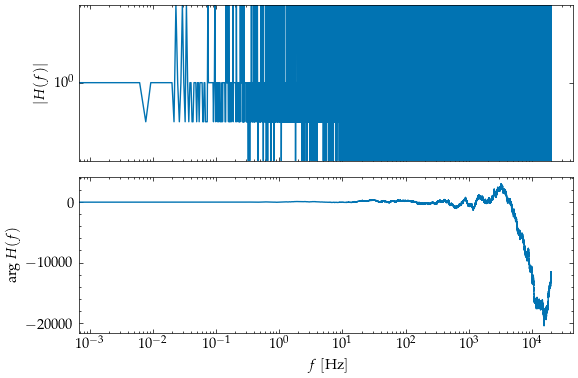
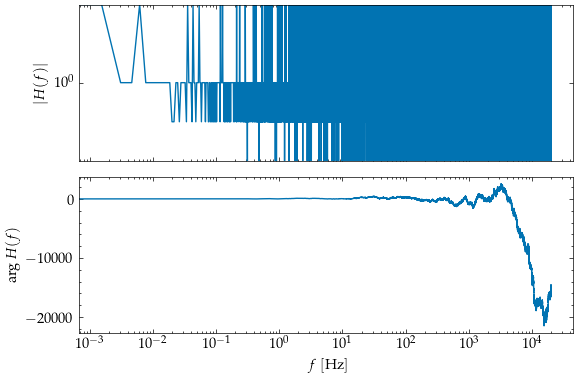
Going torch

diff --git a/src/processor.py b/src/processor.py
@@ -28,9 +28,9 @@ class WallPressureProcessor:
         self.L = self.L0 + self.delta_L0
 
         self.duct_modes = None
-        self.fs_w = None
+        self.f_w = None
         self.p_w = None
-        self.fs_fs = None
+        self.f_fs = None
         self.p_fs = None
         self.filtered = False
 
@@ -48,9 +48,9 @@ class WallPressureProcessor:
     # ------------------------------------------------------------------
     def load_data(self, wall_mat, fs_mat):
         """Load wall and freestream pressure signals from .mat files."""
-        self.fs_w, self.p_w = load_stan_wallpressure(wall_mat)
-        self.fs_fs, self.p_fs = load_stan_wallpressure(fs_mat)
-        return (self.fs_w, self.p_w), (self.fs_fs, self.p_fs)
+        self.f_w, self.p_w = load_stan_wallpressure(wall_mat)
+        self.f_fs, self.p_fs = load_stan_wallpressure(fs_mat)
+        return (self.f_w, self.p_w), (self.f_fs, self.p_fs)
 
     # ------------------------------------------------------------------
     def notch_filter(self):
@@ -178,20 +178,20 @@ class WallPressureProcessor:
         noverlap = nperseg // 2
 
         # estimate spectra via Welch
-        f, P_ff = welch(self.p_fs, fs=self.fs, nperseg=nperseg, noverlap=noverlap)
-        f, P_fw = csd(self.p_fs, self.self.p_w_matched, fs=self.fs, nperseg=nperseg, noverlap=noverlap)
+        f, P_ff = welch(self.p_fs, fs=self.sample_rate, nperseg=nperseg, noverlap=noverlap)
+        f, P_fw = csd(self.p_fs, self.p_w_matched, fs=self.sample_rate, nperseg=nperseg, noverlap=noverlap)
 
         # Wiener filter
         H = P_fw / (P_ff + eps)
 
         # apply in frequency domain
         P_f = np.fft.rfft(self.p_fs)
-        F   = np.fft.rfftfreq(N, 1/self.fs)
+        F   = np.fft.rfftfreq(N, 1/self.sample_rate)
         H_interp = np.interp(F, f, H)       # align filter to full-spectrum bins
         p_est    = np.fft.irfft(H_interp * P_f, n=N)
 
         # subtract predicted free-stream contribution
-        p_clean = self.self.p_w_matched - p_est
+        p_clean = self.p_w_matched - p_est
         self.p_w_clean = p_clean
         return p_clean, f, H
 

diff --git a/src/run.py b/src/run.py
@@ -117,16 +117,9 @@ def main(sanity=None):
 
     f_grid, H_mag = proc.compute_transfer_function(f_ref, Pxx_ref)
     if sanity is not None:
-        fig, ax = plt.subplots(figsize=(5.6, 2.5), dpi=600)
-        ax.plot(f_grid, H_mag, lw=0.5, alpha=0.8)
-        ax.set_xscale("log")
-        ax.set_yscale("log")
-        ax.set_xlabel("$f$ [Hz]")
-        ax.set_ylabel("$|H(f)|$")
-        ax.legend(["$|H(f)|$"])
-        ax.grid(True, which="both", ls="--", alpha=0.5)
-        plt.savefig(os.path.join(OUTPUT_DIR, "transfer_function.png"))
-        plt.close()
+        plot_reference_transfer_function(
+            f_grid, H_mag, os.path.join(OUTPUT_DIR, "reference_transfer_function.png")
+        )
     proc.apply_transfer_function()
     f, P_w_corrected = welch(proc.p_w_corrected, fs=SAMPLE_RATE,
                             nperseg=nperseg, noverlap=noverlap, window="hann")

diff --git a/src/plotting.py b/src/plotting.py
@@ -181,3 +181,15 @@ def plot_wiener_filter(f, P_w, P_fs, P_w_clean, outfile):
     ax.legend(["$P_{ww}$", "$P_{ff}$", "$P_{ww}^{clean}$"])
     plt.savefig(outfile)
     plt.close()
+
+def plot_reference_transfer_function(f_grid, H_mag, outfile):
+    fig, ax = plt.subplots(figsize=(5.6, 2.5), dpi=600)
+    ax.plot(f_grid, H_mag, lw=0.5, alpha=0.8)
+    ax.set_xscale("log")
+    ax.set_yscale("log")
+    ax.set_xlabel("$f$ [Hz]")
+    ax.set_ylabel("$|H(f)|$")
+    ax.legend(["$|H(f)|$"])
+    ax.grid(True, which="both", ls="--", alpha=0.5)
+    plt.savefig(outfile)
+    plt.close()
